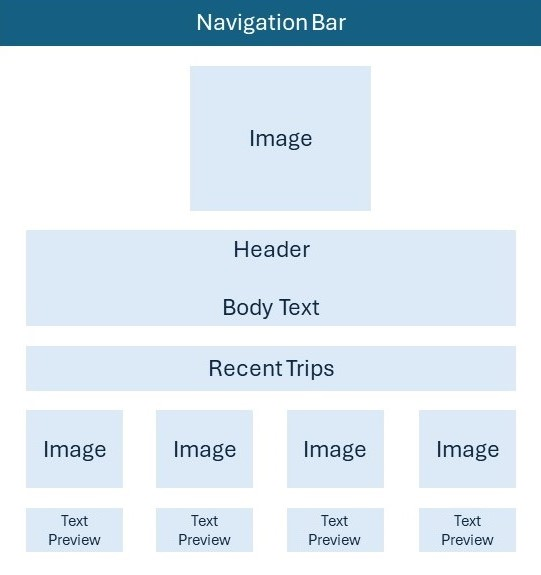
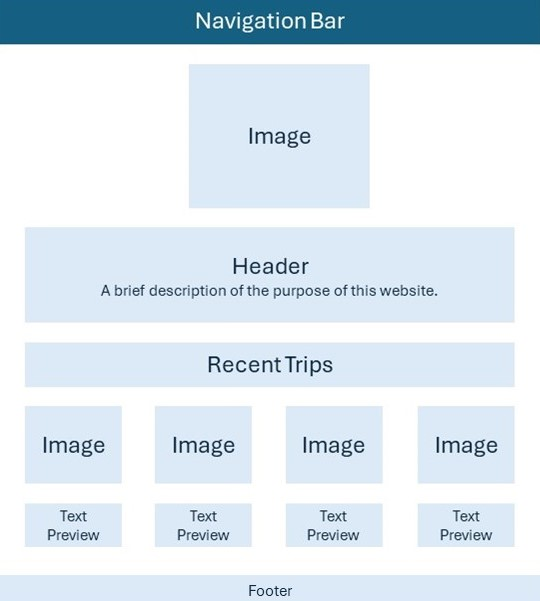
Adds missing wireframes

diff --git a/README.md b/README.md
@@ -6,12 +6,42 @@ This will be a website about ghost towns in the Michigan.
 
 Here are some wireframes to show potential layouts for the site. 
 
-![Wireframe of Landing Page](wireframes/homepage-wireframe.jpg)
+![Wireframe of Homepage](wireframes/homepage-wireframe.jpg)
+
+Homepage:
 
 Header - Trips to Michigan Ghost Towns
 
-Navigation Menu - will include links to pages for each region of the Upper Peninsula and a contact form
+Navigation Menu - will include links to the homepage pages for each region of the Upper Peninsula and a contact form
 
-Main Content - will include photos and descriptions of ghost towns
+Main Content - will include a photo and a short description of the purpose of this website
+
+Recent Trips - will include previews of four recent towns we've visited
+
+Footer - will include copyright information
+
+
+![Wireframe of Northern Upper Peninsula Page](wireframes/northern-upper-peninsula-wireframe.jpg)
+
+Region Page:
+
+Header - Ghost Towns of the Northern Upper Peninsula
+
+Navigation Menu - will include links to the homepage pages for each region of the Upper Peninsula and a contact form
+
+Main Content - will consist of images of the ghost town with a brief description, the location, and a link to Google Maps
+
+Footer - will include copyright information
+
+
+![Wifreframe of Contact Page](wireframes/contact-us-wireframe.jpg)
+
+Contact Page:
+
+Header - Contact Us
+
+Navigation menu - will include links to the homepage pages for each region of the Upper Peninsula and a contact form
+
+Main Content - A contact form
 
 Footer - will include copyright information
